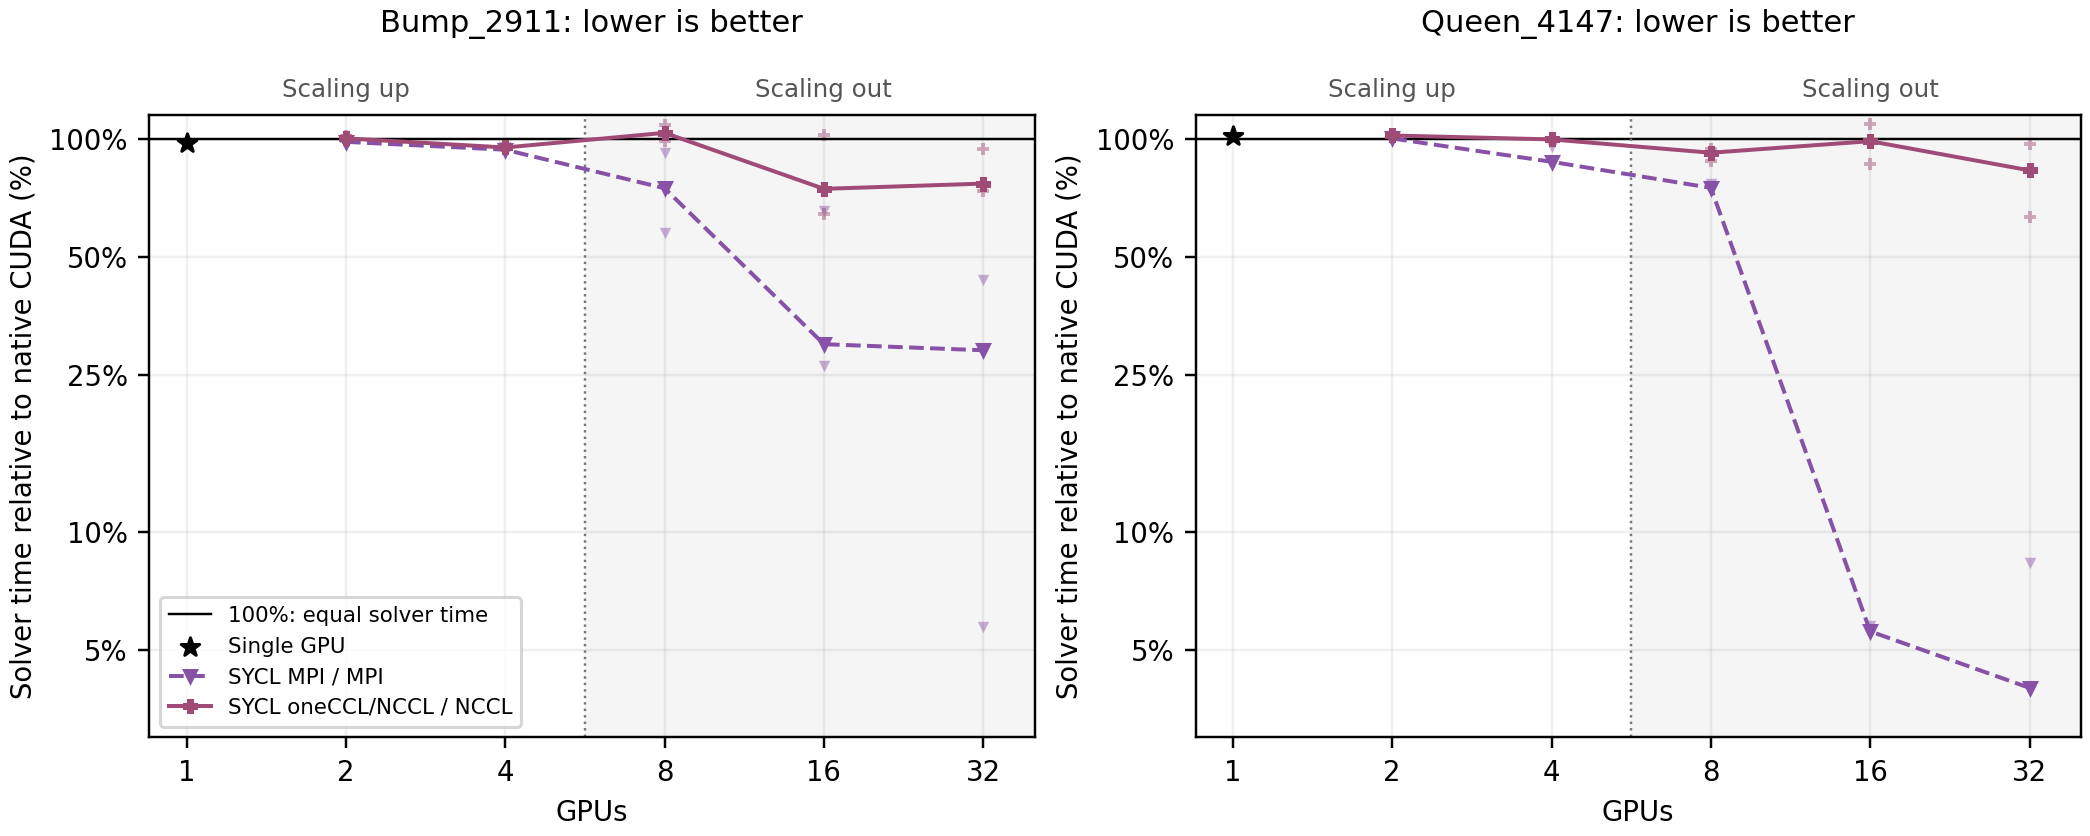
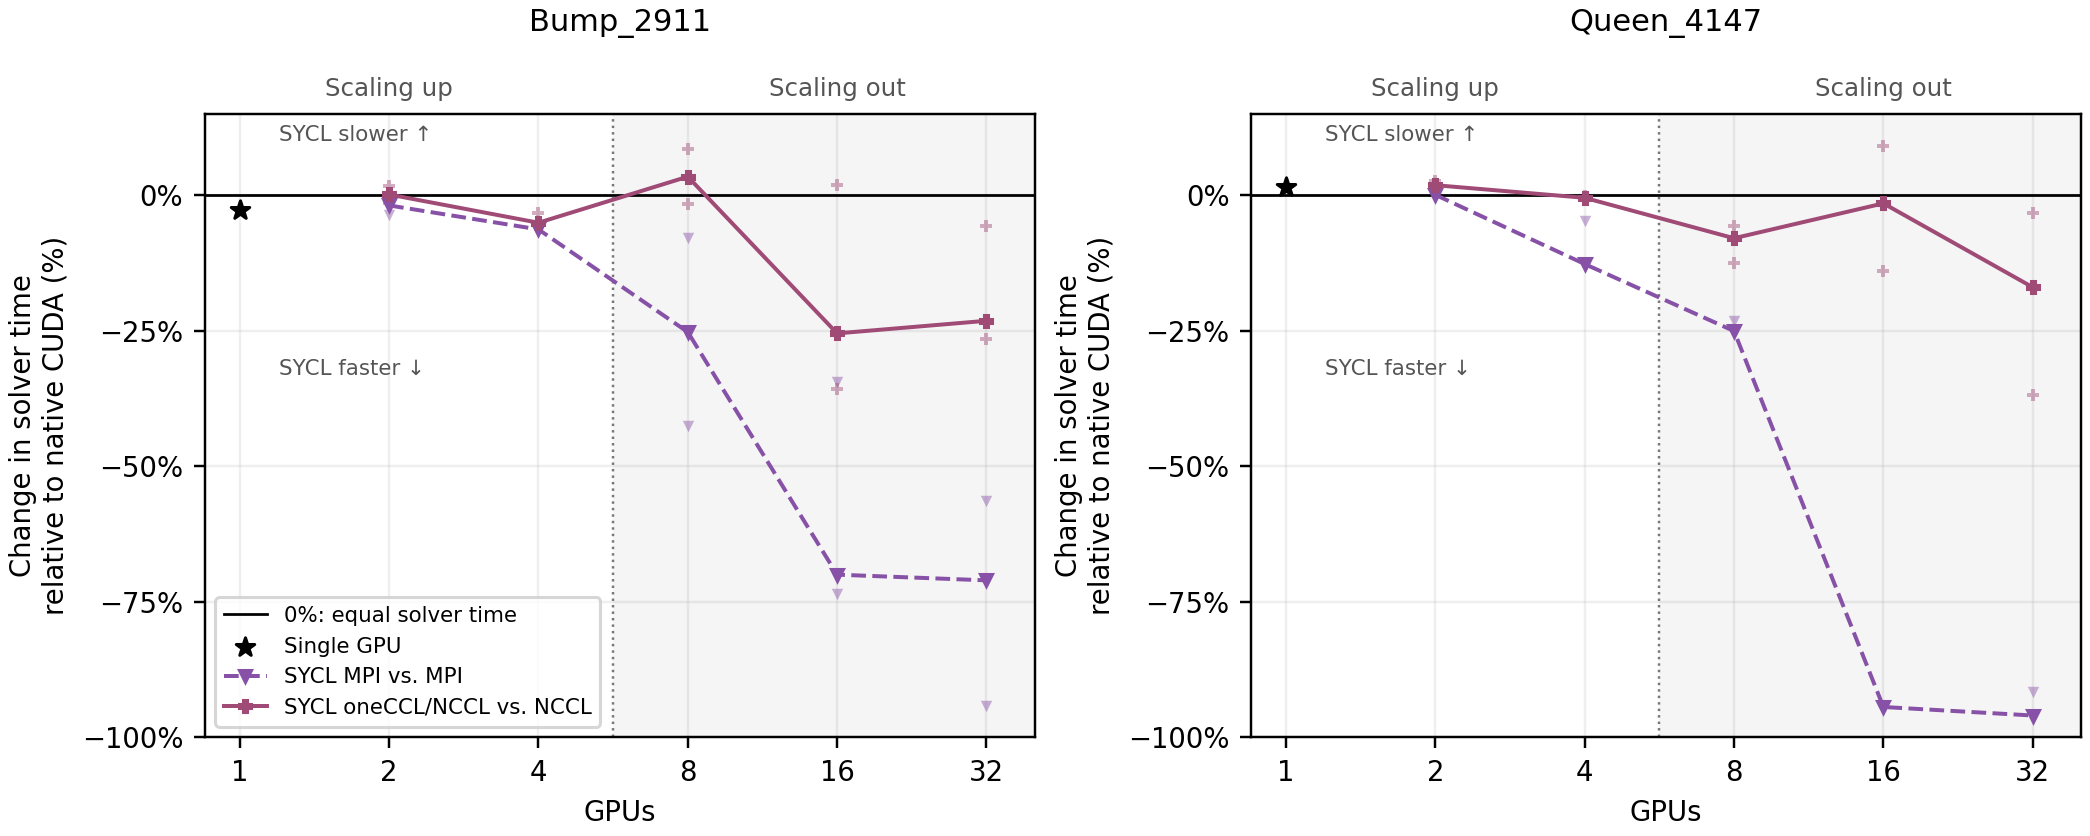
update plot to visualize better the performance

diff --git a/tools/plot_acg_sycl.py b/tools/plot_acg_sycl.py
@@ -15,8 +15,6 @@ import statistics as stats
 from collections import defaultdict
 from pathlib import Path
 
-from matplotlib.ticker import PercentFormatter
-
 spec = importlib.util.spec_from_file_location("plots", Path(__file__).parent / "plot_main_evidence.py")
 plots = importlib.util.module_from_spec(spec)
 spec.loader.exec_module(plots)
@@ -80,25 +78,25 @@ def scaling(times, archived):
 
 
 def ratios(sycl_rows, native_rows):
-    """SYCL / native time per allocation, displayed as percentages, not efficiency."""
+    """Change in solver time, 100 * (SYCL / native - 1), per allocation; not efficiency."""
     fig, axes = plt.subplots(1, 2, figsize=(9.5, 3.8), layout="constrained")
     by_job = defaultdict(list)
     for r in sycl_rows + native_rows:
         if r["status"] == "valid":
             by_job[(r["matrix"], r["backend"], int(r["ranks"]), r["job"])].append(float(r["solver_s"]))
     for ax, matrix in zip(axes, MATRICES):
-        ax.axhline(1, color="black", linewidth=0.8, label="100%: equal solver time")
+        ax.axhline(0, color="black", linewidth=0.9, label="0%: equal solver time")
         boundary = (4 * 8) ** 0.5
         ax.axvspan(boundary, 40, color="#000000", alpha=0.04, linewidth=0)
         ax.axvline(boundary, color="#777777", linestyle=":", linewidth=0.8)
         for pair, sycl_label, native_label, label, color, marker, style in (
             ("single", "acg-sycl-single", "acg-cg-single", "Single GPU", "black", "*", "-"),
-            ("mpi", "acg-sycl-mpi", "acg-cg-mpi", "SYCL MPI / MPI", "#8651a6", "v", "--"),
-            ("nccl", "acg-sycl-oneccl-nccl", "acg-cg-nccl", "SYCL oneCCL/NCCL / NCCL", "#a04a76", "P", "-"),
+            ("mpi", "acg-sycl-mpi", "acg-cg-mpi", "SYCL MPI vs. MPI", "#8651a6", "v", "--"),
+            ("nccl", "acg-sycl-oneccl-nccl", "acg-cg-nccl", "SYCL oneCCL/NCCL vs. NCCL", "#a04a76", "P", "-"),
         ):
             xs, medians = [], []
             for ranks in (1, 2, 4, 8, 16, 32):
-                points = [stats.median(times) / stats.median(by_job[(matrix, native_label, ranks, job)])
+                points = [100 * (stats.median(times) / stats.median(by_job[(matrix, native_label, ranks, job)]) - 1)
                           for (m, b, p, job), times in sorted(by_job.items())
                           if (m, b, p) == (matrix, sycl_label, ranks) and (matrix, native_label, ranks, job) in by_job]
                 if not points:
@@ -115,13 +113,16 @@ def ratios(sycl_rows, native_rows):
         for x, label in ((2, "Scaling up"), (16, "Scaling out")):
             ax.text(x, 1.02, label, transform=ax.get_xaxis_transform(),
                     ha="center", va="bottom", fontsize=8, color="#555555")
-        ax.set_title(f"{matrix}: lower is better", pad=27)
-        ax.set(xlabel="GPUs", ylabel="Solver time relative to native CUDA (%)")
+        for y, label in ((11, "SYCL slower \u2191"), (-32, "SYCL faster \u2193")):
+            ax.text(1.2, y, label, ha="left", va="center", fontsize=7, color="#555555")
+        ax.set_title(matrix, pad=27)
+        ax.set(xlabel="GPUs", ylabel="Change in solver time\nrelative to native CUDA (%)")
         ticks(ax, (1, 2, 4, 8, 16, 32))
+        ax.set_yscale("linear")
         ax.set_xlim(0.85, 40)
-        ax.set_ylim(0.03, 1.15)
-        ax.set_yticks([0.05, 0.1, 0.25, 0.5, 1])
-        ax.yaxis.set_major_formatter(PercentFormatter(xmax=1, decimals=0))
+        ax.set_ylim(-100, 15)
+        ax.set_yticks(range(-100, 1, 25))
+        ax.yaxis.set_major_formatter(lambda v, _: f"\u2212{-v:.0f}%" if v < 0 else f"{v:.0f}%")
     axes[0].legend(fontsize=7, loc="lower left")
     plots.save(fig, "acg-sycl-ratio.png")
 

diff --git a/chapters/05-experimental-evaluation.tex b/chapters/05-experimental-evaluation.tex
@@ -502,7 +502,7 @@ Table~\ref{tab:m-acg-sycl} reports the SYCL-to-native solver-time ratio calculat
 \begin{figure}[htbp]
 \centering
 \includegraphics[width=\textwidth]{figures/results/acg-sycl-ratio.png}
-\caption[SYCL solver time relative to native CUDA]{SYCL solver time as a percentage of native CUDA solver time at the same GPU count. Points are ratios of the median times within each allocation; lines show the median ratio across allocations. The 100\% line indicates equal solver time, and lower values favor SYCL. The vertical axis is logarithmic. The shaded region marks scaling out. Low MPI percentages there reflect unusually slow native MPI runs; this is a runtime comparison, not parallel efficiency.}
+\caption[Change in SYCL solver time relative to native CUDA]{Percentage change in SYCL solver time relative to native CUDA at the same GPU count, $100\,(T_{\mathrm{SYCL}}/T_{\mathrm{CUDA}}-1)$. Points are single allocations, each comparing the SYCL and native medians of that job; lines are medians over allocations. Values below the 0\% line mean SYCL takes less time; a change of $-50\%$ corresponds to a twofold speedup, so the axis is not a percentage speedup. The shaded region marks scaling out. The large MPI reductions there reflect unusually slow native MPI runs; this is a runtime comparison, not parallel efficiency.}
 \label{fig:m-acg-sycl-ratio}
 \end{figure}
 
@@ -510,7 +510,7 @@ Scaling up, SYCL solver times range from 0.87 to 1.02 times the native CUDA time
 
 Scaling out with MPI, the SYCL solver continues strong scaling on both matrices (Figure~\ref{fig:m-acg-sycl-scaling}, right). At \texttt{2n4g}, \texttt{4n4g}, and \texttt{8n4g}, its times fall from 8.0 to 6.1 to 5.6\,s on Bump\_2911. On Queen\_4147 they fall from 14.7 to 9.6 to 6.6\,s. Native MPI instead shows the slow runs described in Section~\ref{sec:acg-variability}, with Queen\_4147 medians of 169 and 153\,s at \texttt{4n4g} and \texttt{8n4g}. These slow runs account for the unusually low SYCL-to-native ratios of 0.04--0.75. No SYCL MPI trial shows the same behavior despite sharing the nodes and MPI settings. This points to an interaction with how the native solver drives communication, without isolating its cause.
 
-Scaling out with NCCL, the paired results give SYCL-to-native ratios of 0.74--1.03 (Figure~\ref{fig:m-acg-sycl-ratio}). In these allocations, the SYCL oneCCL/NCCL solver is generally as fast as or faster than the native NCCL solver. This comparison includes differences in NCCL version, halo exchange, and synchronization as well as the programming interface.
+Scaling out with NCCL, the paired results give SYCL-to-native ratios of 0.74--1.03, a change in solver time of $-26\%$ to $+3\%$ (Figure~\ref{fig:m-acg-sycl-ratio}). In these allocations, the SYCL oneCCL/NCCL solver is generally as fast as or faster than the native NCCL solver. This comparison includes differences in NCCL version, halo exchange, and synchronization as well as the programming interface.
 
 Comparing against the earlier native campaign gives a different picture. At \texttt{8n4g}, native NCCL takes 18.9\,s on Bump\_2911 in the paired campaign, compared with 6.4\,s before; Queen\_4147 takes 24.0 versus 7.5\,s. Relative to those earlier native medians, SYCL oneCCL/NCCL takes 1.19--2.19 times as long across \texttt{2n4g}--\texttt{8n4g}. The baseline changes substantially between campaigns, so that ratio is not an isolated measure of SYCL overhead.
 
